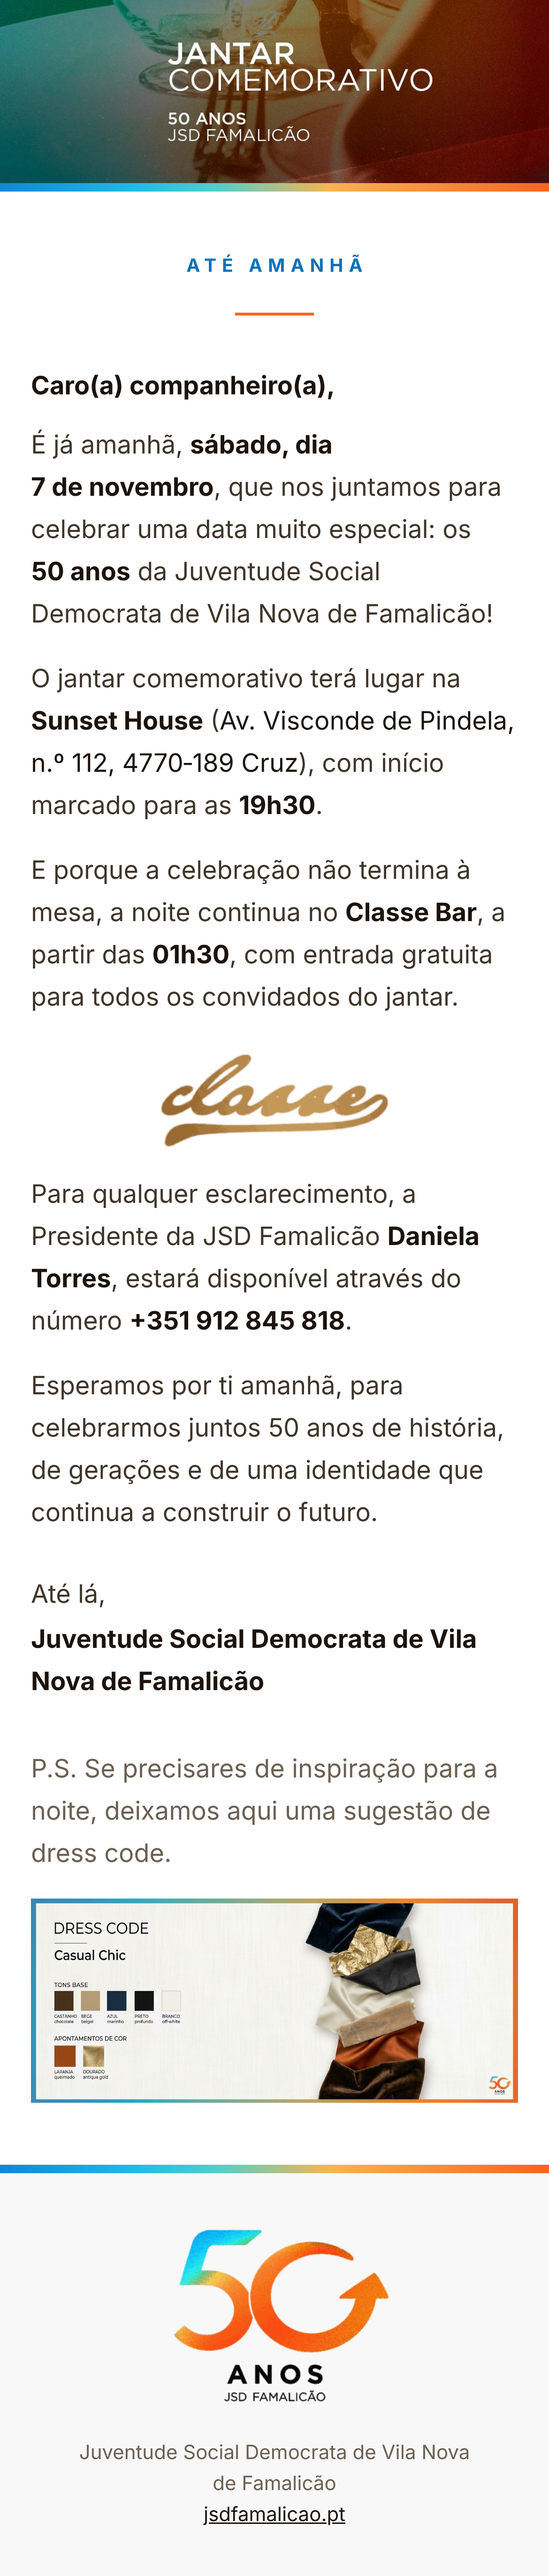
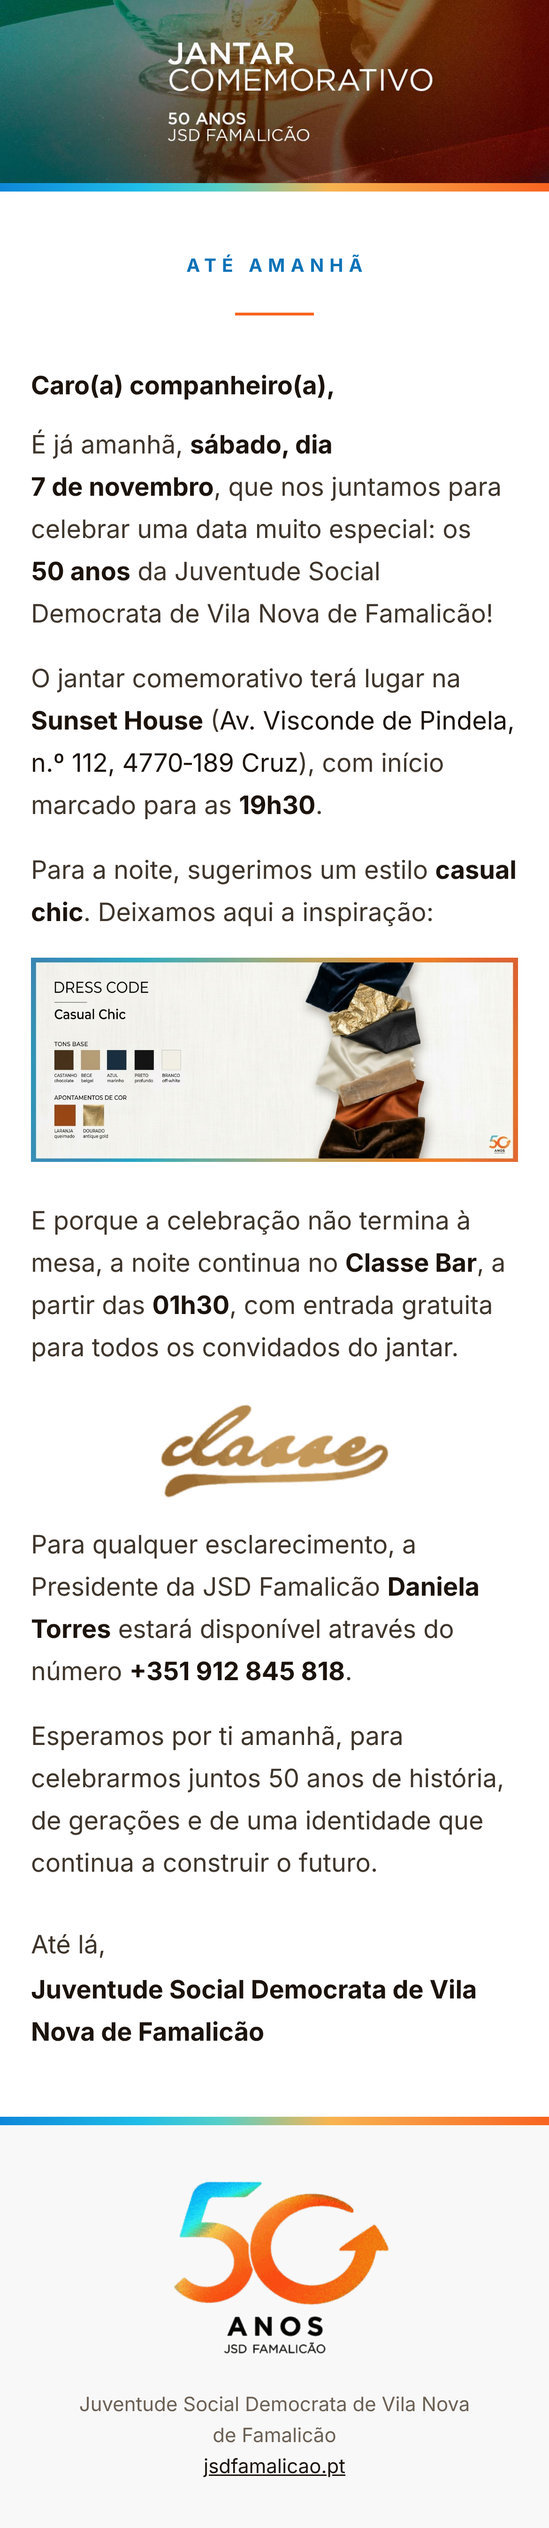
Lembrete: dress code a meio do texto e sem vírgula antes de «estará»
Claude-Session: https://claude.ai/code/session_01NgGM5uT8XH9LdBdVBivDe4

Changed region(s): [[0.0, 0.0, 1.0, 0.9983], [0.8923, 0.3744, 0.9538, 0.468]]

diff --git a/email/jsd-50-anos/v13-lembrete-evento.html b/email/jsd-50-anos/v13-lembrete-evento.html
@@ -84,7 +84,15 @@ style="display:block; min-width:100%; max-width:100%; height:auto; border:0; out
 <td class="px t-corpo" align="left" style="padding:16px 24px 0px 24px; font-family:Montserrat,'Helvetica Neue',Helvetica,Arial,sans-serif; font-size:16px; line-height:27px; color:#3E352B; text-align:left;">O jantar comemorativo terá lugar na <strong style="color:#1B130C;">Sunset&nbsp;House</strong> (<a href="https://www.google.com/maps/search/?api=1&amp;query=Av.+Visconde+de+Pindela+112,+4770-189+Cruz" style="color:#1B130C; text-decoration:none;">Av.&nbsp;Visconde de Pindela, n.º&nbsp;112, 4770&#8209;189&nbsp;Cruz</a>), com início marcado para as <strong style="color:#1B130C;">19h30</strong>.</td>
 </tr>
 <tr>
-<td class="px t-corpo" align="left" style="padding:16px 24px 0px 24px; font-family:Montserrat,'Helvetica Neue',Helvetica,Arial,sans-serif; font-size:16px; line-height:27px; color:#3E352B; text-align:left;">E porque a celebração não termina à mesa, a noite continua no <strong style="color:#1B130C;">Classe&nbsp;Bar</strong>, a partir das <strong style="color:#1B130C;">01h30</strong>, com entrada gratuita para todos os convidados do jantar.</td>
+<td class="px t-corpo" align="left" style="padding:16px 24px 0px 24px; font-family:Montserrat,'Helvetica Neue',Helvetica,Arial,sans-serif; font-size:16px; line-height:27px; color:#3E352B; text-align:left;">Para a noite, sugerimos um estilo <strong style="color:#1B130C;">casual chic</strong>. Deixamos aqui a inspiração:</td>
+</tr>
+<tr>
+<td class="px" align="center" style="padding:16px 24px 0px 24px; font-size:0; line-height:0; text-align:center;">
+<img src="https://jsdfamalicao.pt/convite/dresscode.png" width="992" alt="Dress code: Casual Chic. Tons base: castanho, bege, azul-marinho, preto e branco. Apontamentos de cor: laranja queimado e dourado." style="display:block; min-width:100%; max-width:100%; height:auto; border:0; outline:none; color:#1B130C; font-family:Montserrat,'Helvetica Neue',Helvetica,Arial,sans-serif; font-size:16px; line-height:24px;">
+</td>
+</tr>
+<tr>
+<td class="px t-corpo" align="left" style="padding:28px 24px 0px 24px; font-family:Montserrat,'Helvetica Neue',Helvetica,Arial,sans-serif; font-size:16px; line-height:27px; color:#3E352B; text-align:left;">E porque a celebração não termina à mesa, a noite continua no <strong style="color:#1B130C;">Classe&nbsp;Bar</strong>, a partir das <strong style="color:#1B130C;">01h30</strong>, com entrada gratuita para todos os convidados do jantar.</td>
 </tr>
 <tr>
 <td class="px" align="center" style="padding:20px 24px 0px 24px; font-size:0; line-height:0; text-align:center;">
@@ -94,7 +102,7 @@ style="display:block; min-width:100%; max-width:100%; height:auto; border:0; out
 </td>
 </tr>
 <tr>
-<td class="px t-corpo" align="left" style="padding:16px 24px 0px 24px; font-family:Montserrat,'Helvetica Neue',Helvetica,Arial,sans-serif; font-size:16px; line-height:27px; color:#3E352B; text-align:left;">Para qualquer esclarecimento, a Presidente da JSD&nbsp;Famalicão <strong style="color:#1B130C;">Daniela Torres</strong>, estará disponível através do número <a href="tel:+351912845818" style="color:#1B130C; font-weight:700; text-decoration:none;">+351&nbsp;912&nbsp;845&nbsp;818</a>.</td>
+<td class="px t-corpo" align="left" style="padding:16px 24px 0px 24px; font-family:Montserrat,'Helvetica Neue',Helvetica,Arial,sans-serif; font-size:16px; line-height:27px; color:#3E352B; text-align:left;">Para qualquer esclarecimento, a Presidente da JSD&nbsp;Famalicão <strong style="color:#1B130C;">Daniela Torres</strong> estará disponível através do número <a href="tel:+351912845818" style="color:#1B130C; font-weight:700; text-decoration:none;">+351&nbsp;912&nbsp;845&nbsp;818</a>.</td>
 </tr>
 <tr>
 <td class="px t-corpo" align="left" style="padding:16px 24px 0px 24px; font-family:Montserrat,'Helvetica Neue',Helvetica,Arial,sans-serif; font-size:16px; line-height:27px; color:#3E352B; text-align:left;">Esperamos por ti amanhã, para celebrarmos juntos 50 anos de história, de gerações e de uma identidade que continua a construir o futuro.</td>
@@ -104,14 +112,6 @@ style="display:block; min-width:100%; max-width:100%; height:auto; border:0; out
 </tr>
 <tr>
 <td class="px t-corpo" align="left" style="padding:2px 24px 0px 24px; font-family:Montserrat,'Helvetica Neue',Helvetica,Arial,sans-serif; font-size:16px; line-height:25px; font-weight:700; color:#1B130C; text-align:left;">Juventude Social Democrata de Vila Nova de&nbsp;Famalicão</td>
-</tr>
-<tr>
-<td class="px t-corpo" align="left" style="padding:32px 24px 0px 24px; font-family:Montserrat,'Helvetica Neue',Helvetica,Arial,sans-serif; font-size:14px; line-height:23px; color:#6B6054; text-align:left;">P.S. Se precisares de inspiração para a noite, deixamos aqui uma sugestão de dress code.</td>
-</tr>
-<tr>
-<td class="px" align="center" style="padding:16px 24px 0px 24px; font-size:0; line-height:0; text-align:center;">
-<img src="https://jsdfamalicao.pt/convite/dresscode.png" width="992" alt="Dress code: Casual Chic. Tons base: castanho, bege, azul-marinho, preto e branco. Apontamentos de cor: laranja queimado e dourado." style="display:block; min-width:100%; max-width:100%; height:auto; border:0; outline:none; color:#1B130C; font-family:Montserrat,'Helvetica Neue',Helvetica,Arial,sans-serif; font-size:16px; line-height:24px;">
-</td>
 </tr>
 <tr>
 <td class="px t-corpo" align="left" style="padding:0px 24px 44px 24px; font-family:Montserrat,'Helvetica Neue',Helvetica,Arial,sans-serif; font-size:16px; line-height:27px; color:#3E352B; text-align:left;"></td>

diff --git a/email/jsd-50-anos/src/gerar_lembrete_evento.py b/email/jsd-50-anos/src/gerar_lembrete_evento.py
@@ -19,17 +19,16 @@ def lembrete():
           f'os <strong {F}>50&nbsp;anos</strong> da Juventude Social Democrata de Vila Nova de Famalicão!', 12),
         L(f'O jantar comemorativo terá lugar na <strong {F}>Sunset&nbsp;House</strong> (<a href="{MAPA_HREF}" style="color:{ESCURO}; text-decoration:none;">'
           f'Av.&nbsp;Visconde de Pindela, n.º&nbsp;112, 4770&#8209;189&nbsp;Cruz</a>), com início marcado para as <strong {F}>19h30</strong>.', 16),
+        L(f'Para a noite, sugerimos um estilo <strong {F}>casual chic</strong>. Deixamos aqui a inspiração:', 16),
+        imagem_dresscode(16),
         L(f'E porque a celebração não termina à mesa, a noite continua no <strong {F}>Classe&nbsp;Bar</strong>, a partir das <strong {F}>01h30</strong>, '
-          'com entrada gratuita para todos os convidados do jantar.', 16),
+          'com entrada gratuita para todos os convidados do jantar.', 28),
         logo_classe_pequeno(20),
-        L(f'Para qualquer esclarecimento, a Presidente da JSD&nbsp;Famalicão <strong {F}>Daniela Torres</strong>, estará disponível através do número '
+        L(f'Para qualquer esclarecimento, a Presidente da JSD&nbsp;Famalicão <strong {F}>Daniela Torres</strong> estará disponível através do número '
           f'<a href="tel:+351912845818" style="color:{ESCURO}; font-weight:700; text-decoration:none;">{TEL}</a>.', 16),
         L('Esperamos por ti amanhã, para celebrarmos juntos 50 anos de história, de gerações e de uma identidade que continua a construir o futuro.', 16),
         L('Até lá,', 28),
         linha(ASSINATURA, 2, 0, f'font-size:16px; line-height:25px; font-weight:700; color:{ESCURO};'),
-        linha(f'P.S. Se precisares de inspiração para a noite, deixamos aqui uma sugestão de dress code.', 32, 0,
-              f'font-size:14px; line-height:23px; color:{MUTED};'),
-        imagem_dresscode(16),
         linha('', 0, 44),
     ])
     html = pagina('50 Anos JSD Famalicão · Lembrete', PRE, corpo, '', css_extra=CSS, claro_forcado=True, logo_png=True,
